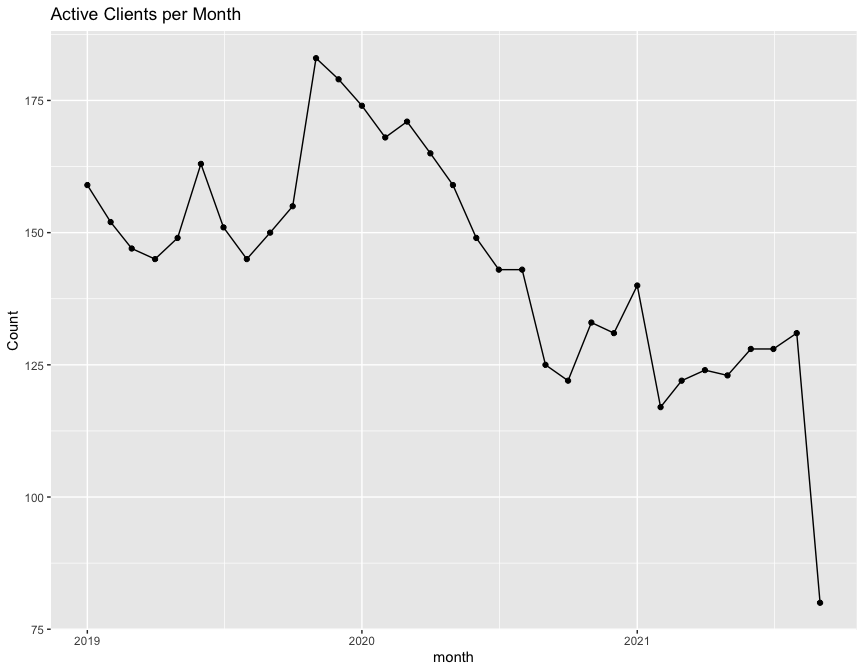
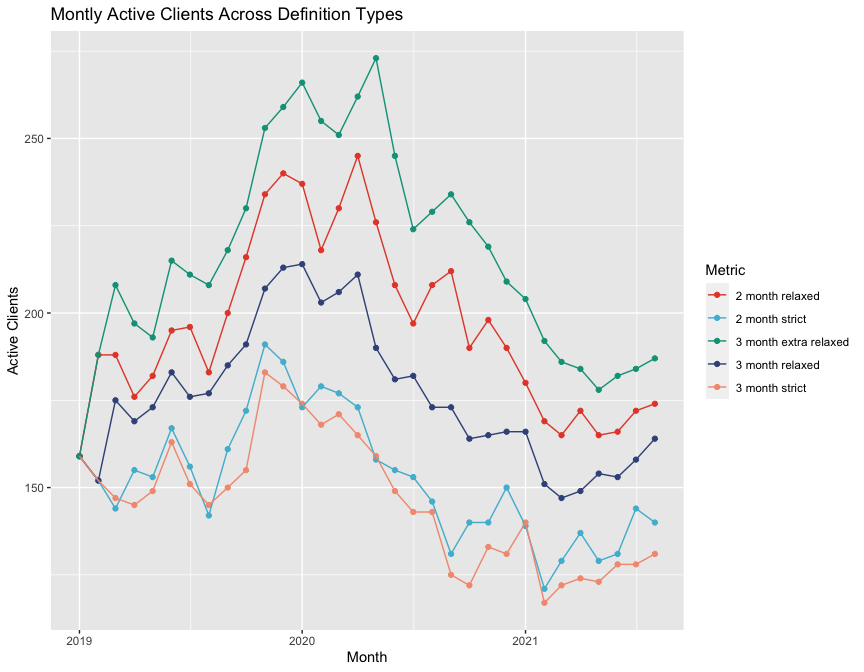
added new metric defs, and combined service plot

diff --git a/analyses/team1/brendan_g/utilization_score.md b/analyses/team1/brendan_g/utilization_score.md
@@ -315,7 +315,7 @@ monthly_util <-
   filter(active_period == 1)
 ```
 
-Example output (some column left out for display purposes)
+Example output (some columns left out for display purposes)
 
 ``` r
 monthly_util %>% 
@@ -367,121 +367,135 @@ consistently use services over time.
 
 The logic is, for each client:
 
--   calculate a 3 month rolling mean of services used
--   check if that rolling mean is at least 1, meaning on avg they use 1
-    type of service offered each month for the past 3 months
+-   for each client for each month, calculate the number of ElderNet
+    services they engaged with. This number will range from a minimum of
+    0 if they didn’t use any services, to a maximum of 3 if a client
+    used the pantry, volunteer services and care mgmt services in that
+    month.
+-   calculate a rolling mean of services a client engaged with both over
+    the past 2 months, and over the past 3 months
+-   check if that rolling mean is over a threshold, and if so define
+    that client as being active in that month
+-   several thresholds are defined for the sake of example
 
 ``` r
 get_active_clients <-
-  function(data, client, lookback = 2){
+  function(data, client, lookback = 2, threshold = 1){
+    # 
+    # client <- 610
+    # data <- monthly_util
+    # lookback <- 2
 
     data %>%
       ungroup() %>%
       filter(anon_ID == {{client}}) %>%
-      mutate(lookback_mean = slider::slide_dbl(num_svcs_used, mean, .before = lookback, .after = 0),
-             active_client = ifelse(lookback_mean >= 1, 1, 0))
+      mutate(lookback_mean_2mo = round(slider::slide_dbl(num_svcs_used, mean, .before = 1, .after = 0), 2),
+             lookback_mean_3mo = round(slider::slide_dbl(num_svcs_used, mean, .before = 2, .after = 0), 2),
+             
+             # used at least 1 svc offered (pantry, volunteer, care mgmt) in 2 of the 2 previous months
+             active_client_2mo = ifelse(lookback_mean_2mo >= 1, 1, 0), 
+              
+             # used at least 1 svc offered (pantry, volunteer, care mgmt) in 3 of the 3 previous months
+             active_client_3mo = ifelse(lookback_mean_3mo >= 1, 1, 0), # used svcs in 3 of the 3 previous months
+             
+             # used at least 1 svc offered (pantry, volunteer, care mgmt) in 1 of the 2 previous months
+             active_client_2mo_relaxed = ifelse(lookback_mean_2mo >= .5, 1, 0),
+             
+             # used at least 1 svc offered (pantry, volunteer, care mgmt) in 2 of the 3 previous months
+             active_client_3mo_relaxed = ifelse(lookback_mean_3mo >= .67, 1, 0),
+             
+             # used at least 1 svc offered (pantry, volunteer, care mgmt) in 1 of the 3 previous months
+             active_client_3mo_extra_relaxed = ifelse(lookback_mean_3mo >= .33, 1, 0)
+             ) 
   }
 
 client_ids <- 
   sort(unique(monthly_util$anon_ID))
 
 active_clients <- 
-  map_dfr(client_ids, ~get_active_clients(data = monthly_util, client = .x)) 
+  map_dfr(client_ids, ~get_active_clients(data = monthly_util, client = .x))
 ```
 
-using this methodology, Client 210 was an active client each month:
+**Examples**
+
+Client 610 for the 12 months in 2020 fell into and out of being an
+active client at different times depending on the metric being used.
 
 ``` r
 active_clients %>% 
-  filter(anon_ID == "210") %>%
-  select(month, anon_ID, num_svcs_used, lookback_mean, active_client) %>%
-  print(n = 40)
+  filter(anon_ID == "610",
+         month >= "2020-01-01",
+         month <= "2020-12-31") %>%
+  select(month, anon_ID, num_svcs_used, starts_with("lookback"), starts_with("active")) %>%
+  select(-active_period) %>% 
+  reactable::reactable(resizable = T, wrap = F, defaultPageSize = 12)
 ```
 
-    ## # A tibble: 33 × 5
-    ##    month      anon_ID num_svcs_used lookback_mean active_client
-    ##    <date>       <dbl>         <dbl>         <dbl>         <dbl>
-    ##  1 2019-01-01     210             3          3                1
-    ##  2 2019-02-01     210             3          3                1
-    ##  3 2019-03-01     210             3          3                1
-    ##  4 2019-04-01     210             3          3                1
-    ##  5 2019-05-01     210             3          3                1
-    ##  6 2019-06-01     210             2          2.67             1
-    ##  7 2019-07-01     210             3          2.67             1
-    ##  8 2019-08-01     210             3          2.67             1
-    ##  9 2019-09-01     210             3          3                1
-    ## 10 2019-10-01     210             3          3                1
-    ## 11 2019-11-01     210             3          3                1
-    ## 12 2019-12-01     210             3          3                1
-    ## 13 2020-01-01     210             1          2.33             1
-    ## 14 2020-02-01     210             3          2.33             1
-    ## 15 2020-03-01     210             3          2.33             1
-    ## 16 2020-04-01     210             2          2.67             1
-    ## 17 2020-05-01     210             2          2.33             1
-    ## 18 2020-06-01     210             2          2                1
-    ## 19 2020-07-01     210             1          1.67             1
-    ## 20 2020-08-01     210             2          1.67             1
-    ## 21 2020-09-01     210             1          1.33             1
-    ## 22 2020-10-01     210             2          1.67             1
-    ## 23 2020-11-01     210             2          1.67             1
-    ## 24 2020-12-01     210             2          2                1
-    ## 25 2021-01-01     210             2          2                1
-    ## 26 2021-02-01     210             2          2                1
-    ## 27 2021-03-01     210             2          2                1
-    ## 28 2021-04-01     210             2          2                1
-    ## 29 2021-05-01     210             1          1.67             1
-    ## 30 2021-06-01     210             2          1.67             1
-    ## 31 2021-07-01     210             2          1.67             1
-    ## 32 2021-08-01     210             2          2                1
-    ## 33 2021-09-01     210             1          1.67             1
+<div id="htmlwidget-21c3c8093649e8dea1c2" class="reactable html-widget" style="width:auto;height:auto;"></div>
+<script type="application/json" data-for="htmlwidget-21c3c8093649e8dea1c2">{"x":{"tag":{"name":"Reactable","attribs":{"data":{"month":["2020-01-01","2020-02-01","2020-03-01","2020-04-01","2020-05-01","2020-06-01","2020-07-01","2020-08-01","2020-09-01","2020-10-01","2020-11-01","2020-12-01"],"anon_ID":[610,610,610,610,610,610,610,610,610,610,610,610],"num_svcs_used":[0,0,0,0,1,1,1,0,0,0,0,0],"lookback_mean_2mo":[0,0,0,0,0.5,1,1,0.5,0,0,0,0],"lookback_mean_3mo":[0.33,0,0,0,0.33,0.67,1,0.67,0.33,0,0,0],"active_client_2mo":[0,0,0,0,0,1,1,0,0,0,0,0],"active_client_3mo":[0,0,0,0,0,0,1,0,0,0,0,0],"active_client_2mo_relaxed":[0,0,0,0,1,1,1,1,0,0,0,0],"active_client_3mo_relaxed":[0,0,0,0,0,1,1,1,0,0,0,0],"active_client_3mo_extra_relaxed":[1,0,0,0,1,1,1,1,1,0,0,0]},"columns":[{"accessor":"month","name":"month","type":"Date"},{"accessor":"anon_ID","name":"anon_ID","type":"numeric"},{"accessor":"num_svcs_used","name":"num_svcs_used","type":"numeric"},{"accessor":"lookback_mean_2mo","name":"lookback_mean_2mo","type":"numeric"},{"accessor":"lookback_mean_3mo","name":"lookback_mean_3mo","type":"numeric"},{"accessor":"active_client_2mo","name":"active_client_2mo","type":"numeric"},{"accessor":"active_client_3mo","name":"active_client_3mo","type":"numeric"},{"accessor":"active_client_2mo_relaxed","name":"active_client_2mo_relaxed","type":"numeric"},{"accessor":"active_client_3mo_relaxed","name":"active_client_3mo_relaxed","type":"numeric"},{"accessor":"active_client_3mo_extra_relaxed","name":"active_client_3mo_extra_relaxed","type":"numeric"}],"resizable":true,"defaultPageSize":12,"paginationType":"numbers","showPageInfo":true,"minRows":1,"nowrap":true,"dataKey":"6465996318cd678c61d774de1e20ee3b","key":"6465996318cd678c61d774de1e20ee3b"},"children":[]},"class":"reactR_markup"},"evals":[],"jsHooks":[]}</script>
 
-but Client 1 dropped out of active client status:
+On the other hand, client 210 was an active client each month in 2020 no
+matter which metric is used:
 
 ``` r
 active_clients %>% 
-  filter(anon_ID == "1")%>%
-  select(month, anon_ID, num_svcs_used, lookback_mean, active_client) %>%
-  print(n = 40)
+  filter(anon_ID == "210",
+         month >= "2020-01-01",
+         month <= "2020-12-31") %>%
+  select(month, anon_ID, num_svcs_used, starts_with("lookback"), starts_with("active")) %>%
+  select(-active_period) %>% 
+  reactable::reactable(resizable = T, wrap = F, defaultPageSize = 12)
 ```
 
-    ## # A tibble: 4 × 5
-    ##   month      anon_ID num_svcs_used lookback_mean active_client
-    ##   <date>       <dbl>         <dbl>         <dbl>         <dbl>
-    ## 1 2021-06-01       1             1         1                 1
-    ## 2 2021-07-01       1             1         1                 1
-    ## 3 2021-08-01       1             0         0.667             0
-    ## 4 2021-09-01       1             0         0.333             0
+<div id="htmlwidget-82be4dd43ffbdee54065" class="reactable html-widget" style="width:auto;height:auto;"></div>
+<script type="application/json" data-for="htmlwidget-82be4dd43ffbdee54065">{"x":{"tag":{"name":"Reactable","attribs":{"data":{"month":["2020-01-01","2020-02-01","2020-03-01","2020-04-01","2020-05-01","2020-06-01","2020-07-01","2020-08-01","2020-09-01","2020-10-01","2020-11-01","2020-12-01"],"anon_ID":[210,210,210,210,210,210,210,210,210,210,210,210],"num_svcs_used":[1,3,3,2,2,2,1,2,1,2,2,2],"lookback_mean_2mo":[2,2,3,2.5,2,2,1.5,1.5,1.5,1.5,2,2],"lookback_mean_3mo":[2.33,2.33,2.33,2.67,2.33,2,1.67,1.67,1.33,1.67,1.67,2],"active_client_2mo":[1,1,1,1,1,1,1,1,1,1,1,1],"active_client_3mo":[1,1,1,1,1,1,1,1,1,1,1,1],"active_client_2mo_relaxed":[1,1,1,1,1,1,1,1,1,1,1,1],"active_client_3mo_relaxed":[1,1,1,1,1,1,1,1,1,1,1,1],"active_client_3mo_extra_relaxed":[1,1,1,1,1,1,1,1,1,1,1,1]},"columns":[{"accessor":"month","name":"month","type":"Date"},{"accessor":"anon_ID","name":"anon_ID","type":"numeric"},{"accessor":"num_svcs_used","name":"num_svcs_used","type":"numeric"},{"accessor":"lookback_mean_2mo","name":"lookback_mean_2mo","type":"numeric"},{"accessor":"lookback_mean_3mo","name":"lookback_mean_3mo","type":"numeric"},{"accessor":"active_client_2mo","name":"active_client_2mo","type":"numeric"},{"accessor":"active_client_3mo","name":"active_client_3mo","type":"numeric"},{"accessor":"active_client_2mo_relaxed","name":"active_client_2mo_relaxed","type":"numeric"},{"accessor":"active_client_3mo_relaxed","name":"active_client_3mo_relaxed","type":"numeric"},{"accessor":"active_client_3mo_extra_relaxed","name":"active_client_3mo_extra_relaxed","type":"numeric"}],"resizable":true,"defaultPageSize":12,"paginationType":"numbers","showPageInfo":true,"minRows":1,"nowrap":true,"dataKey":"a6f07e387eb62a01671662a11bc000f4","key":"a6f07e387eb62a01671662a11bc000f4"},"children":[]},"class":"reactR_markup"},"evals":[],"jsHooks":[]}</script>
 
-Plotting the overall active clients each month shows the impact of COVID
-19
+Plotting the different measure of active clients shows the effect of
+relaxing the definition allows more clients to fall into the ‘active’
+definition each month.
 
 ``` r
-map_dfr(client_ids, ~get_active_clients(data = monthly_util, client = .x)) %>%
+active_clients %>%
   ungroup() %>%
   group_by(month) %>%
-  summarise(active_clients = sum(active_client)) %>%
-  ggplot(., aes(x = month, y = active_clients)) + 
+  summarise(`2 month strict` = sum(active_client_2mo),
+            `3 month strict` = sum(active_client_3mo),
+            `2 month relaxed`= sum(active_client_2mo_relaxed),
+            `3 month relaxed` = sum(active_client_3mo_relaxed),
+            `3 month extra relaxed` = sum(active_client_3mo_extra_relaxed),
+            ) %>% 
+  pivot_longer(2:6) %>%
+  mutate(category = ifelse(name %in% c("2 month strict", '3 month strict'), 'Strict Definition', "Relaxed Definition")) %>%
+  filter(month < max(month)) %>%
+  ggplot(., aes(x = month, y = value, color = name)) + 
   geom_point() + 
   geom_line() + 
-  labs(x = 'month', y = "Count", title = 'Active Clients per Month')
+  labs(x = 'month', y = "Count", title = 'Active Clients per Month') + 
+  scale_color_npg() + 
+  # facet_wrap(vars(category))  +
+  labs(x = 'Month', y = 'Active Clients', color = 'Metric', title = 'Montly Active Clients Across Definition Types')
 ```
 
 ![](utilization_score_files/figure-gfm/unnamed-chunk-17-1.png)<!-- -->
 
-plotting active clients per month, poverty status and minority status
-shows how active minority clients with poverty = yes showed almost not
-change through the pandemic
+taking into account poverty status and minority status shows how active
+clients with `poverty = yes`and `minority = yes` showed almost no change
+through the pandemic. This is illustrative of how the ElderNet serves
+really serve as a lifeline to this population.
 
 ``` r
-map_dfr(client_ids, ~get_active_clients(data = monthly_util, client = .x)) %>%
+active_clients %>%
   ungroup() %>%
-  group_by(month, poverty, minority) %>%
-  summarise(active_clients = sum(active_client)) %>%
-  ggplot(., aes(x = month, y = active_clients, color = poverty)) + 
+  mutate(poverty_label = ifelse(poverty == "Yes", "Poverty: Yes", "Poverty: No"),
+         minority_label = ifelse(minority == "Yes", "Minority: Yes", "Minority: No")) %>%
+  filter(month < max(month)) %>%
+  group_by(month, poverty_label, minority_label) %>%
+  summarise(active_clients = sum(active_client_3mo)) %>%
+  ggplot(., aes(x = month, y = active_clients, color = poverty_label)) + 
   geom_point() + 
   geom_line() + 
-  facet_wrap(vars(minority)) + 
-  labs(x = 'month', y = "Count", title = 'Active Clients per Month')
+  facet_wrap(vars(minority_label)) + 
+  labs(x = 'month', y = "Count", title = 'Active Clients per Month', color = NULL)
 ```
 
 ![](utilization_score_files/figure-gfm/unnamed-chunk-18-1.png)<!-- -->
@@ -490,6 +504,26 @@ map_dfr(client_ids, ~get_active_clients(data = monthly_util, client = .x)) %>%
 
 Another way to measure utilization is to add up each type of encounter
 per client per month.
+
+``` r
+monthly_util %>%
+  select(anon_ID, month, ends_with("encounters")) %>% 
+  as_tibble() %>% 
+  pivot_longer(3:ncol(.)) %>%
+  filter(month < max(month)) %>%
+  group_by(month, name) %>%
+  summarise(total_encounters = sum(value, na.rm = T),
+            mean_encounters = mean(value, na.rm = T),
+            sd_util = sum(value, na.rm = T)) %>%
+  ggplot(aes(x = month, y = total_encounters, color = name)) +
+  geom_point(show.legend = FALSE) +
+  geom_line(show.legend = FALSE) + 
+  facet_wrap(vars(name)) + 
+  scale_color_npg() + 
+  labs(x = "month", y = "Total monthly encounters", title = " Encounters by service")
+```
+
+![](utilization_score_files/figure-gfm/unnamed-chunk-19-1.png)<!-- -->
 
 It appears that volunteer encounters for minority clients is not
 recovering the same as non-minority clients after the shock of the
@@ -507,11 +541,11 @@ monthly_util %>%
   ggplot(aes(x = month, y = total_encounters, color = minority)) +
   geom_point() +
   geom_line() + 
-  facet_wrap(vars(name), scales = 'free') + 
+  facet_wrap(vars(name)) + 
   labs(x = "month", y = "Total monthly encounters", title = " Encounters by service and minority status")
 ```
 
-![](utilization_score_files/figure-gfm/unnamed-chunk-19-1.png)<!-- -->
+![](utilization_score_files/figure-gfm/unnamed-chunk-20-1.png)<!-- -->
 
 It does seem like ElderNet was able to successfully transition to remote
 contact when the pandemic hit:
@@ -540,4 +574,4 @@ client_info %>%
   labs(x = "month", y = "monthly encounters", title = "Care mgmt encounters by service")
 ```
 
-![](utilization_score_files/figure-gfm/unnamed-chunk-20-1.png)<!-- -->
+![](utilization_score_files/figure-gfm/unnamed-chunk-21-1.png)<!-- -->
